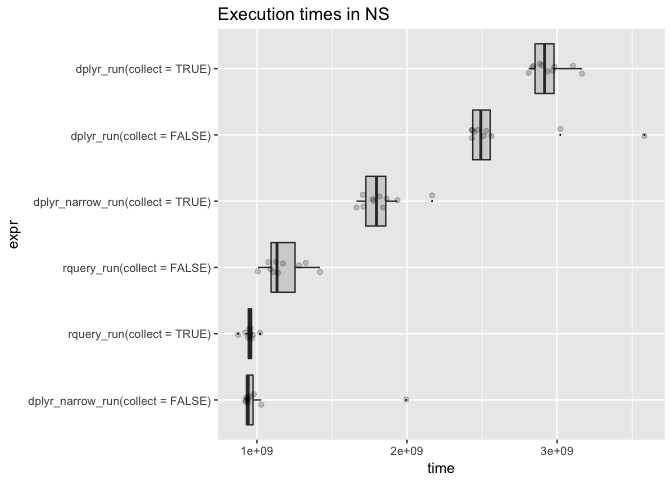
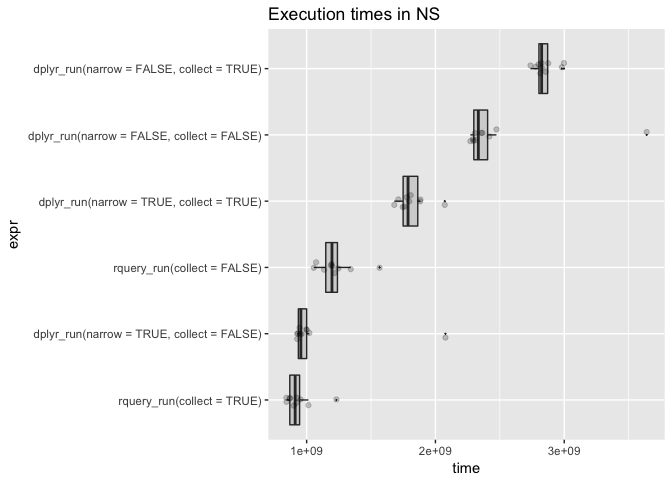
re-run experiment

diff --git a/docs/index.html b/docs/index.html
@@ -294,7 +294,7 @@ dq &lt;-<span class="st"> </span>d <span class="op">%.&gt;%</span>
  ) tsql_0004
 ) tsql_0005 ORDER BY `subjectID`</code></pre>
 <p>The query is large, but due to its regular structure it should be very amenable to query optimization.</p>
-<p>A feature to notice is: the query was automatically restricted to just columns actually needed from the source table to complete the calculation. This has the possibility of decreasing data volume and greatly speeding up query performance. Our <a href="https://github.com/WinVector/rquery/blob/master/extras/PerfTest.md">initial experiments</a> show <code>rquery</code> narrowed queries to be twice as fast as <code>dplyr</code> on a synthetic problem simulating large disk-based queries. We think if we connected directly to <code>Spark</code>’s relational operators (avoiding the <code>SQL</code> layer) we may be able to achieve even faster performance.</p>
+<p>A feature to notice is: the query was automatically restricted to just columns actually needed from the source table to complete the calculation. This has the possibility of decreasing data volume and greatly speeding up query performance. Our <a href="https://github.com/WinVector/rquery/blob/master/extras/PerfTest.md">initial experiments</a> show <code>rquery</code> narrowed queries to be twice as fast as un-narrowed <code>dplyr</code> on a synthetic problem simulating large disk-based queries. We think if we connected directly to <code>Spark</code>’s relational operators (avoiding the <code>SQL</code> layer) we may be able to achieve even faster performance.</p>
 <p>The above optimization is possible because the <code>rquery</code> representation is an intelligible tree of nodes, so we can interrogate the tree for facts about the query. For example:</p>
 <div class="sourceCode"><pre class="sourceCode r"><code class="sourceCode r"><span class="kw"><a href="reference/column_names.html">column_names</a></span>(dq)</code></pre></div>
 <pre><code>## [1] "diagnosis"   "probability" "subjectID"</code></pre>

diff --git a/docs/reference/if_else_block.html b/docs/reference/if_else_block.html
@@ -211,8 +211,8 @@ is a reserved column name for this procedure.</p>
           ) a
        ) b"</span>
  <span class='kw pkg'>DBI</span><span class='kw ns'>::</span><span class='fu'><a href='http://www.rdocumentation.org/packages/DBI/topics/dbGetQuery'>dbGetQuery</a></span>(<span class='no'>my_db</span>, <span class='no'>q</span>)</div><div class='output co'>#&gt;                     r1                   r2
-#&gt; 1  2580273086644752867  5616642596971350251
-#&gt; 2 -3834477422173922247 -3883008555972534877</div><div class='input'>
+#&gt; 1  -449425514904726871  3101324221737178500
+#&gt; 2 -3062389716629843497 -3161494153444398413</div><div class='input'>
 <span class='kw pkg'>DBI</span><span class='kw ns'>::</span><span class='fu'><a href='http://www.rdocumentation.org/packages/DBI/topics/dbDisconnect'>dbDisconnect</a></span>(<span class='no'>my_db</span>)</div></pre>
   </div>
   <div class="col-md-3 hidden-xs hidden-sm" id="sidebar">

diff --git a/extras/PerfTest.md b/extras/PerfTest.md
@@ -84,29 +84,14 @@ rquery_run <- function(collect) {
   dR
 }
 
-dplyr_run <- function(collect) {
-  dR <- dT %>%
-    group_by(subjectID) %>%
-    mutate(probability =
-             exp(assessmentTotal * scale)/
-             sum(exp(assessmentTotal * scale))) %>%
-    arrange(probability, surveyCategory) %>%
-    filter(row_number() == n()) %>%
-    ungroup() %>%
-    rename(diagnosis = surveyCategory) %>%
-    select(subjectID, diagnosis, probability) %>%
-    arrange(subjectID) 
-  if(collect) {
-    dR <- collect(dR)
-  } else {
-    dR <- compute(dR)
-  }
-  dR
-}
 
-dplyr_narrow_run <- function(collect) {
-  dR <- dT %>%
-    select(subjectID, surveyCategory, assessmentTotal) %>%
+dplyr_run <- function(narrow, collect) {
+  dR <- dT
+  if(narrow) {
+    dR <- dR %>%
+      select(subjectID, surveyCategory, assessmentTotal)
+  }
+  dR <- dR %>%
     group_by(subjectID) %>%
     mutate(probability =
              exp(assessmentTotal * scale)/
@@ -129,12 +114,12 @@ head(rquery_run(collect=TRUE))
 ```
 
     ##   subjectID           diagnosis probability
-    ## 1         1 withdrawal behavior   0.7658456
-    ## 2         2 withdrawal behavior   0.6163301
-    ## 3         3 positive re-framing   0.7207128
-    ## 4         4 withdrawal behavior   0.7207128
-    ## 5         5 positive re-framing   0.8056518
-    ## 6         6 positive re-framing   0.8940695
+    ## 1         1 positive re-framing   0.5589742
+    ## 2         2 positive re-framing   0.8056518
+    ## 3         3 withdrawal behavior   0.6163301
+    ## 4         4 positive re-framing   0.7207128
+    ## 5         5 positive re-framing   0.7207128
+    ## 6         6 withdrawal behavior   0.5589742
 
 ``` r
 dR <- rquery_run(collect=FALSE) 
@@ -143,29 +128,29 @@ DBI::dbGetQuery(my_db,
 ```
 
     ##   subjectID           diagnosis probability
-    ## 1     23266 withdrawal behavior   0.5589742
-    ## 2     23267 positive re-framing   0.8401037
-    ## 3     23268 withdrawal behavior   0.5000000
-    ## 4     23269 positive re-framing   0.6163301
-    ## 5     23270 withdrawal behavior   0.6706221
-    ## 6     23271 withdrawal behavior   0.5589742
+    ## 1     23266 withdrawal behavior   0.7207128
+    ## 2     23267 positive re-framing   0.6163301
+    ## 3     23268 withdrawal behavior   0.7207128
+    ## 4     23269 positive re-framing   0.6706221
+    ## 5     23270 withdrawal behavior   0.6163301
+    ## 6     23271 withdrawal behavior   0.5000000
 
 ``` r
-head(dplyr_run(collect=TRUE))
+head(dplyr_run(narrow=FALSE, collect=TRUE))
 ```
 
     ## # A tibble: 6 x 3
     ##   subjectID diagnosis           probability
     ##       <int> <chr>                     <dbl>
-    ## 1         1 withdrawal behavior       0.766
-    ## 2         2 withdrawal behavior       0.616
-    ## 3         3 positive re-framing       0.721
-    ## 4         4 withdrawal behavior       0.721
-    ## 5         5 positive re-framing       0.806
-    ## 6         6 positive re-framing       0.894
+    ## 1         1 positive re-framing       0.559
+    ## 2         2 positive re-framing       0.806
+    ## 3         3 withdrawal behavior       0.616
+    ## 4         4 positive re-framing       0.721
+    ## 5         5 positive re-framing       0.721
+    ## 6         6 withdrawal behavior       0.559
 
 ``` r
-head(dplyr_run(collect=FALSE))
+head(dplyr_run(narrow=FALSE, collect=FALSE))
 ```
 
     ## # Source: lazy query [?? x 3]
@@ -173,29 +158,29 @@ head(dplyr_run(collect=FALSE))
     ## # Ordered by: probability, surveyCategory, subjectID
     ##   subjectID diagnosis           probability
     ##       <int> <chr>                     <dbl>
-    ## 1         1 withdrawal behavior       0.766
-    ## 2         2 withdrawal behavior       0.616
-    ## 3         3 positive re-framing       0.721
-    ## 4         4 withdrawal behavior       0.721
-    ## 5         5 positive re-framing       0.806
-    ## 6         6 positive re-framing       0.894
+    ## 1         1 positive re-framing       0.559
+    ## 2         2 positive re-framing       0.806
+    ## 3         3 withdrawal behavior       0.616
+    ## 4         4 positive re-framing       0.721
+    ## 5         5 positive re-framing       0.721
+    ## 6         6 withdrawal behavior       0.559
 
 ``` r
-head(dplyr_narrow_run(collect=TRUE))
+head(dplyr_run(narrow=TRUE, collect=TRUE))
 ```
 
     ## # A tibble: 6 x 3
     ##   subjectID diagnosis           probability
     ##       <int> <chr>                     <dbl>
-    ## 1         1 withdrawal behavior       0.766
-    ## 2         2 withdrawal behavior       0.616
-    ## 3         3 positive re-framing       0.721
-    ## 4         4 withdrawal behavior       0.721
-    ## 5         5 positive re-framing       0.806
-    ## 6         6 positive re-framing       0.894
+    ## 1         1 positive re-framing       0.559
+    ## 2         2 positive re-framing       0.806
+    ## 3         3 withdrawal behavior       0.616
+    ## 4         4 positive re-framing       0.721
+    ## 5         5 positive re-framing       0.721
+    ## 6         6 withdrawal behavior       0.559
 
 ``` r
-head(dplyr_narrow_run(collect=FALSE))
+head(dplyr_run(narrow=TRUE, collect=FALSE))
 ```
 
     ## # Source: lazy query [?? x 3]
@@ -203,22 +188,22 @@ head(dplyr_narrow_run(collect=FALSE))
     ## # Ordered by: probability, surveyCategory, subjectID
     ##   subjectID diagnosis           probability
     ##       <int> <chr>                     <dbl>
-    ## 1         1 withdrawal behavior       0.766
-    ## 2         2 withdrawal behavior       0.616
-    ## 3         3 positive re-framing       0.721
-    ## 4         4 withdrawal behavior       0.721
-    ## 5         5 positive re-framing       0.806
-    ## 6         6 positive re-framing       0.894
+    ## 1         1 positive re-framing       0.559
+    ## 2         2 positive re-framing       0.806
+    ## 3         3 withdrawal behavior       0.616
+    ## 4         4 positive re-framing       0.721
+    ## 5         5 positive re-framing       0.721
+    ## 6         6 withdrawal behavior       0.559
 
 Get timings:
 
 ``` r
 timings <- microbenchmark(rquery_run(collect=TRUE), 
-                          dplyr_run(collect=TRUE), 
-                          dplyr_narrow_run(collect=TRUE),
+                          dplyr_run(narrow=FALSE, collect=TRUE), 
+                          dplyr_run(narrow=TRUE, collect=TRUE),
                           rquery_run(collect=FALSE), 
-                          dplyr_run(collect=FALSE), 
-                          dplyr_narrow_run(collect=FALSE),
+                          dplyr_run(narrow=FALSE, collect=FALSE), 
+                          dplyr_run(narrow=TRUE, collect=FALSE),
                           times = 10)
 ```
 
@@ -230,20 +215,20 @@ print(timings)
 ```
 
     ## Unit: milliseconds
-    ##                               expr       min        lq      mean    median
-    ##         rquery_run(collect = TRUE)  874.5895  940.2566  951.2349  953.9594
-    ##          dplyr_run(collect = TRUE) 2810.4525 2842.4260 2943.1012 2916.6831
-    ##   dplyr_narrow_run(collect = TRUE) 1663.3073 1710.0458 1825.1881 1796.6628
-    ##        rquery_run(collect = FALSE) 1006.8827 1089.1111 1174.9770 1133.8259
-    ##         dplyr_run(collect = FALSE) 2431.3161 2434.2981 2642.2580 2491.4957
-    ##  dplyr_narrow_run(collect = FALSE)  923.9540  928.4978 1055.5590  942.2475
-    ##         uq      max neval
-    ##   966.4726 1021.821    10
-    ##  2981.7669 3166.250    10
-    ##  1864.5365 2167.466    10
-    ##  1280.6254 1420.037    10
-    ##  2563.3218 3581.354    10
-    ##   980.3150 1995.026    10
+    ##                                        expr       min        lq      mean
+    ##                  rquery_run(collect = TRUE)  842.3482  869.0729  936.7508
+    ##   dplyr_run(narrow = FALSE, collect = TRUE) 2737.9100 2800.0907 2849.1706
+    ##    dplyr_run(narrow = TRUE, collect = TRUE) 1680.6390 1745.3924 1811.7457
+    ##                 rquery_run(collect = FALSE) 1055.3818 1135.1144 1221.7407
+    ##  dplyr_run(narrow = FALSE, collect = FALSE) 2271.0574 2295.0817 2472.6400
+    ##   dplyr_run(narrow = TRUE, collect = FALSE)  926.1705  932.5914 1073.8828
+    ##     median        uq      max neval
+    ##   910.8444  952.6031 1231.069    10
+    ##  2824.5068 2875.8243 2997.982    10
+    ##  1787.2461 1881.0530 2072.279    10
+    ##  1196.6431 1246.5913 1566.196    10
+    ##  2333.1417 2418.6568 3640.092    10
+    ##   955.0510 1000.7769 2077.655    10
 
 ``` r
 tdf <- as.data.frame(timings)

diff --git a/README.md b/README.md
@@ -204,7 +204,7 @@ cat(to_sql(dq, source_limit = 1000))
 
 The query is large, but due to its regular structure it should be very amenable to query optimization.
 
-A feature to notice is: the query was automatically restricted to just columns actually needed from the source table to complete the calculation. This has the possibility of decreasing data volume and greatly speeding up query performance. Our [initial experiments](https://github.com/WinVector/rquery/blob/master/extras/PerfTest.md) show `rquery` narrowed queries to be twice as fast as `dplyr` on a synthetic problem simulating large disk-based queries. We think if we connected directly to `Spark`'s relational operators (avoiding the `SQL` layer) we may be able to achieve even faster performance.
+A feature to notice is: the query was automatically restricted to just columns actually needed from the source table to complete the calculation. This has the possibility of decreasing data volume and greatly speeding up query performance. Our [initial experiments](https://github.com/WinVector/rquery/blob/master/extras/PerfTest.md) show `rquery` narrowed queries to be twice as fast as un-narrowed `dplyr` on a synthetic problem simulating large disk-based queries. We think if we connected directly to `Spark`'s relational operators (avoiding the `SQL` layer) we may be able to achieve even faster performance.
 
 The above optimization is possible because the `rquery` representation is an intelligible tree of nodes, so we can interrogate the tree for facts about the query. For example:
 
